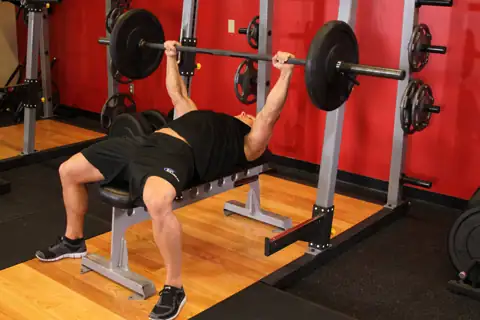
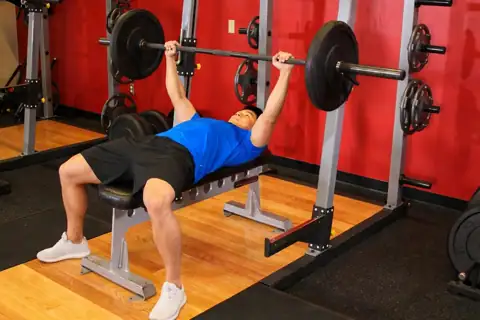
Ảnh bài tập vẽ lại (người mới): Đẩy ngực tạ đòn; ảnh có số phiên bản (?v=) để máy khách tải ảnh mới dù ảnh cũ được lưu đệm 30 ngày
Claude-Session: https://claude.ai/code/session_0163KSZYdzHDud2uG42gs7mp

diff --git a/src/pc/web/BlockEdit.jsx b/src/pc/web/BlockEdit.jsx
@@ -12,7 +12,7 @@ import { MediaPick } from "./MediaPick";
 import { authFetch } from "../../lib/authFetch";
 import LpEdit from "./LpEdit";
 import { EXERCISES, EX_BY_ID } from "../../workout/exercises.js";
-import { EX_PHOTOS } from "../../workout/exPhotos.js";
+import { EX_PHOTOS, exPhotoQ } from "../../workout/exPhotos.js";
 const EX_SORTED = [...EXERCISES].sort((a, b) => a.vi.localeCompare(b.vi, "vi"));
 
 // Chữ trong trình soạn = tỉ lệ chữ bài trên web (đoạn 18/1,75 · H2 28/1,3 · H3 22/1,35), thu nhỏ cho khung soạn
@@ -178,7 +178,7 @@ export function OtherBlock({ b, set, showToast, slug, postId }) {
     case "baitap": { const e = EX_BY_ID[b.ex]; return ( // 01/11: thẻ bài tập — web hiện ảnh động + 3 bước đầu + link trang bài (thư viện chung với app)
       <Box testid="web-blk-baitap">
         <div style={{ display: "flex", alignItems: "center", gap: 12 }}>
-          {e && EX_PHOTOS.has(e.id) ? <img src={`/ex/t/${e.id}-0.webp`} alt="" style={{ width: 64, height: 48, borderRadius: 10, objectFit: "cover", flexShrink: 0 }} /> : <span style={{ width: 64, height: 48, borderRadius: 10, background: "#E8F1FF", flexShrink: 0 }} />}
+          {e && EX_PHOTOS.has(e.id) ? <img src={`/ex/t/${e.id}-0.webp${exPhotoQ(e.id)}`} alt="" style={{ width: 64, height: 48, borderRadius: 10, objectFit: "cover", flexShrink: 0 }} /> : <span style={{ width: 64, height: 48, borderRadius: 10, background: "#E8F1FF", flexShrink: 0 }} />}
           <span style={{ flex: 1, minWidth: 0, display: "flex", flexDirection: "column", gap: 2 }}><span style={{ fontSize: 11, fontWeight: 800, color: BLUE, letterSpacing: ".04em" }}>THẺ BÀI TẬP · lấy từ thư viện bài tập</span>
             {e ? <><b style={{ fontSize: 15 }}>{e.vi} <i style={{ fontWeight: 600, color: PC.t3 }}>({e.en})</i></b><span style={{ fontSize: 12, color: PC.t3 }}>{(e.steps || []).slice(0, 1).join("")}</span></> : <b style={{ fontSize: 14, color: PC.t3 }}>Chọn bài tập</b>}
           </span>

diff --git a/src/workout/exLib.jsx b/src/workout/exLib.jsx
@@ -1,7 +1,7 @@
 // 01/11: tra cứu bài tập (bài có sẵn + bài khách tự thêm), đơn vị (lần / giây / phút), ảnh động tác (ảnh người thật, bản quyền công cộng).
 import { useState } from "react";
 import { EX_BY_ID, EXERCISES, MUSCLES, EQUIPS } from "./exercises.js";
-import { EX_PHOTOS } from "./exPhotos.js";
+import { EX_PHOTOS, exPhotoQ } from "./exPhotos.js";
 
 export { EXERCISES, MUSCLES, EQUIPS };
 export const MUSCLE_NAME = Object.fromEntries(MUSCLES);
@@ -61,7 +61,7 @@ export function ExPhoto({ ex, big = false, w = 64, h = 48, radius = 12 }) {
   ensureCss();
   if (!hasPhoto(ex)) return <NoPhoto ex={ex} w={big ? "100%" : w} h={big ? 230 : h} radius={big ? 20 : radius} big={big} />;
   const dir = big ? "/ex/" : "/ex/t/";
-  const imgs = [0, 1].map((f) => <img key={f} src={`${dir}${ex.id}-${f}.webp`} alt={f ? "" : `Động tác ${ex.vi}`} loading="lazy" decoding="async" draggable={false} />);
+  const imgs = [0, 1].map((f) => <img key={f} src={`${dir}${ex.id}-${f}.webp${exPhotoQ(ex.id)}`} alt={f ? "" : `Động tác ${ex.vi}`} loading="lazy" decoding="async" draggable={false} />);
   if (!big) return <span className="fp-exph" data-testid="wk-photo" style={{ width: w, height: h, borderRadius: radius }}>{imgs}</span>;
   return (
     <span className="fp-exph" data-testid="wk-photo-big" data-paused={paused ? "1" : "0"} role="button" tabIndex={0} aria-label={paused ? "Chạy ảnh động tác" : "Dừng ảnh động tác"}

diff --git a/web/lib/workout.js b/web/lib/workout.js
@@ -1,7 +1,7 @@
 // 01/11 (bản vẽ "Pi và Bài tập trên web"): Thư viện bài tập trên web đọc CHUNG dữ liệu với app (src/workout → lib/app/workout, chép lúc dựng).
 // Link theo tên Việt: "Gánh tạ" → /bai-tap/ganh-ta (trùng thì thêm -2). Ảnh lấy từ app (app.fipilotai.com/ex/…), không chép 2 bản.
 import { EXERCISES, EX_BY_ID, MUSCLES, EQUIPS } from "./app/workout/exercises.js";
-import { EX_PHOTOS } from "./app/workout/exPhotos.js";
+import { EX_PHOTOS, exPhotoQ } from "./app/workout/exPhotos.js";
 import { TEMPLATES, fold } from "./app/workout/plan.js";
 import { targetsOf } from "./app/workout/exTargets.js";
 export { targetsOf };
@@ -30,7 +30,7 @@ export const exById = (id) => EX_BY_ID[id] || null;
 export const exUrl = (id) => `/bai-tap/${exSlug(id)}`;
 export const hasPhoto = (id) => EX_PHOTOS.has(id);
 /** ảnh 2 khung: to 480 px · nhỏ 128×96 */
-export const photoUrls = (id, big = true) => (hasPhoto(id) ? [0, 1].map((f) => `${APP}/ex/${big ? "" : "t/"}${id}-${f}.webp`) : null);
+export const photoUrls = (id, big = true) => (hasPhoto(id) ? [0, 1].map((f) => `${APP}/ex/${big ? "" : "t/"}${id}-${f}.webp${exPhotoQ(id)}`) : null);
 
 export const countBy = (key) => EXERCISES.reduce((m, e) => { m[e[key]] = (m[e[key]] || 0) + 1; return m; }, {});
 

diff --git a/src/workout/exPhotos.js b/src/workout/exPhotos.js
@@ -117,3 +117,10 @@ export const EX_PHOTOS = new Set([
   "upright-row",
   "walking-lunge",
 ]);
+
+// 01/11: ảnh đã thay bằng ảnh vẽ lại (người mới) → số phiên bản để máy khách tải ảnh mới (ảnh /ex/ được lưu đệm 30 ngày)
+// Thay ảnh bài nào thì tăng số của bài đó.
+export const EX_PHOTO_V = {
+  "barbell-bench-press": 2,
+};
+export const exPhotoQ = (id) => (EX_PHOTO_V[id] ? `?v=${EX_PHOTO_V[id]}` : "");
